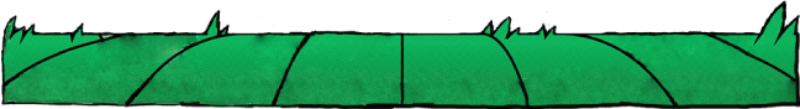
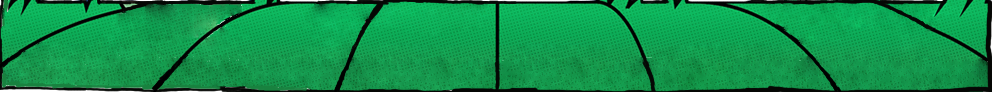
adding hitbox to ground

diff --git a/src/game/ground.js b/src/game/ground.js
@@ -1,8 +1,9 @@
 // gestion du terrain
 function preloadWorld(gameloop) {
-    // gameloop.load.atlas('tiles', '/assets/platformer.png', '/assets/platformer.json');
+    // gameloop.load.atlas('tiles', 'src/assets/platformer.png', 'src/assets/platformer.json');
     gameloop.load.image('bg', 'src/assets/gravitygarden.png');
-    gameloop.load.atlas('ground', 'src/assets/ground.png', 'src/assets/ground.json');
+    gameloop.load.image('ground', 'src/assets/ground.png');
+    gameloop.load.image('bushes', 'src/assets/bushes.png');
 }
 
 function createWorld(gameloop) {
@@ -19,7 +20,9 @@ function createWorld(gameloop) {
     // ground.create(64+640, 936, 'tiles', '2');
     // ground.create(64+768, 936, 'tiles', '2');
 
-    ground.create(400, 955, 'ground', '1');
+    ground.create(400, 957, 'ground');
+
+    gameloop.add.image(400, 922, 'bushes');
 
     // .refreshBody()
 
